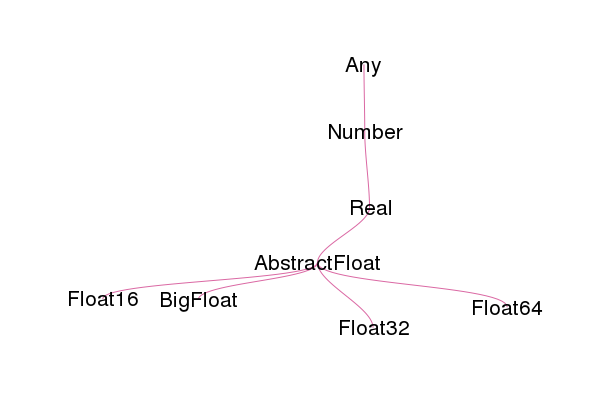
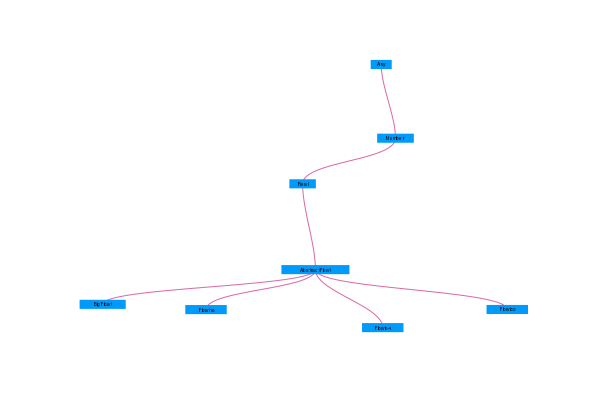
Snapshot of branch master taken on 2019-07-01T07:03:09.948-04:00 from "https://github.com/UnofficialJuliaMirror/GraphRecipes.jl-bd48cda9-67a9-57be-86fa-5b3c104eda73"

diff --git a/README.md b/README.md
@@ -21,9 +21,7 @@ end
 
 graphplot(A,
           node_weights = 1:n,
-          marker = (:YlOrRd, :rect),
-          marker_z = 1:n,
-          markersize = 3,
+          nodecolor = range(colorant"yellow", stop=colorant"red", length=n),
           names = 1:n,
           linecolor = :darkgrey,
        )
@@ -91,7 +89,7 @@ function mysum(list)
 end
 )
 
-plot(code, fontsize=5, shorten=0.2, axis_buffer=0.15)
+plot(code, fontsize=5, shorten=0.01, axis_buffer=0.15, nodeshape=:rect)
 
 ```
 
@@ -103,7 +101,7 @@ plot(code, fontsize=5, shorten=0.2, axis_buffer=0.15)
 using GraphRecipes
 using Plots
 
-plot(AbstractFloat, method=:tree, fontsize=4)
+plot(AbstractFloat, method=:tree, fontsize=4, nodeshape=:rect)
 
 ```
 ![](assets/julia_type_tree.png)
